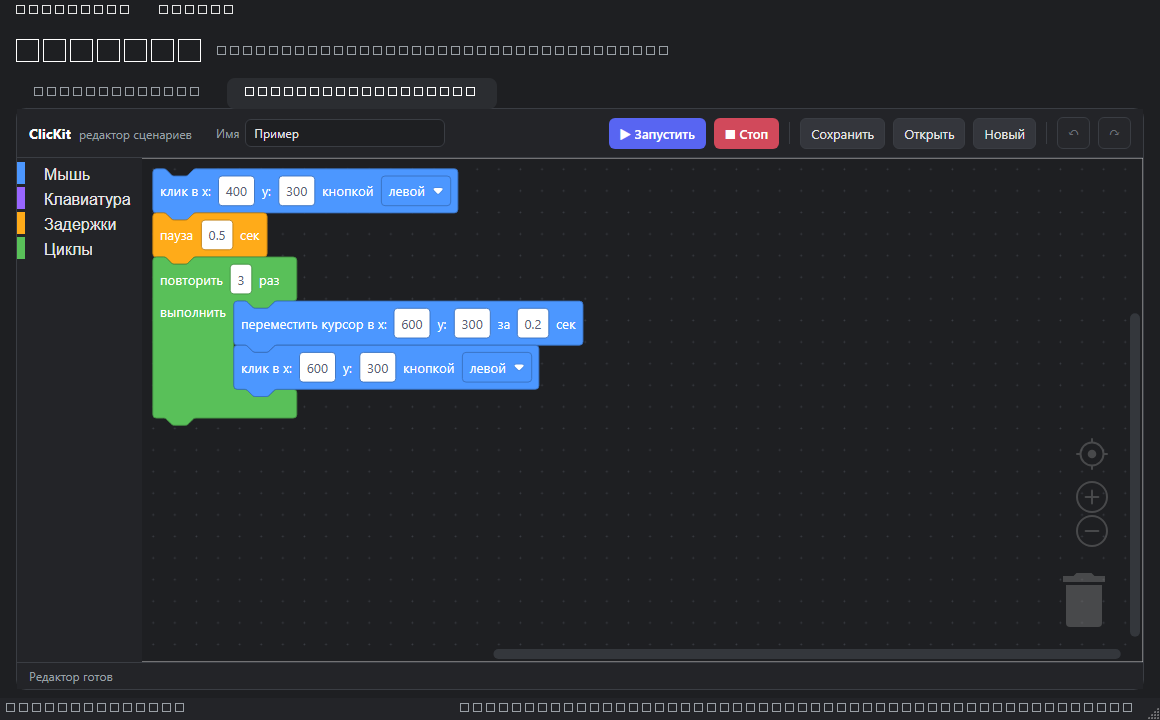
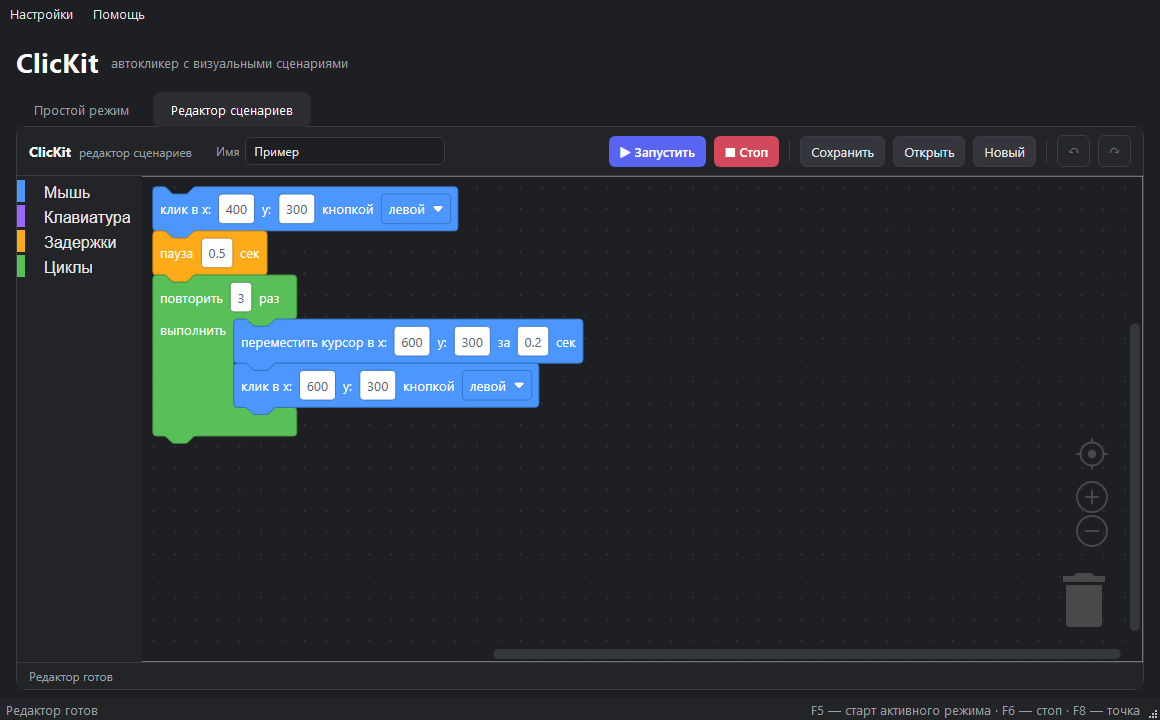
fix: скриншоты README с системными шрифтами вместо квадратов

diff --git a/scripts/make_screenshots.py b/scripts/make_screenshots.py
@@ -1,7 +1,10 @@
-"""Снимки интерфейса для README: offscreen-рендер реального окна.
+"""Снимки интерфейса для README: рендер реального окна без экрана.
 
-Скрипт поднимает настоящее окно ClicKit в offscreen-режиме (без экрана),
+Скрипт поднимает настоящее окно ClicKit с флагом `WA_DontShowOnScreen`
+(виджет рендерится, но не появляется на экране и не перехватывает фокус),
 заполняет форму демонстрационными значениями и сохраняет PNG в `docs/img/`.
+Нативная платформа Qt нужна ради системных шрифтов: у offscreen-платформы
+на Windows нет шрифтовой базы, и вместо текста получаются квадраты.
 Ввод не эмулируется: используется mock-бэкенд, поэтому мышь не двигается,
 а пользовательские настройки в `%APPDATA%` не читаются и не пишутся.
 
@@ -10,7 +13,8 @@
     python scripts/make_screenshots.py
 
 QtWebEngine должен уметь запуститься без GPU и sandbox — это те же
-переменные окружения, что и в CI/смоук-тестах.
+переменные окружения, что и в CI/смоук-тестах. На CI (где сессии без
+десктопа) флаг `CLICKIT_SHOTS_OFFSCREEN=1` возвращает offscreen-платформу.
 """
 
 import os
@@ -20,7 +24,8 @@ from collections.abc import Callable
 from pathlib import Path
 
 # Переменные Qt нужно выставить до импорта PySide6.
-os.environ.setdefault("QT_QPA_PLATFORM", "offscreen")
+if os.environ.get("CLICKIT_SHOTS_OFFSCREEN") == "1":
+    os.environ.setdefault("QT_QPA_PLATFORM", "offscreen")
 os.environ.setdefault("QTWEBENGINE_DISABLE_SANDBOX", "1")
 os.environ.setdefault("QTWEBENGINE_CHROMIUM_FLAGS", "--disable-gpu")
 
@@ -124,6 +129,11 @@ def main() -> int:
             theme=theme,
         )
         window.resize(*WINDOW_SIZE)
+        # Рендер без появления на экране: grab() рисует виджет в pixmap,
+        # а окно не показывается пользователю и не крадёт фокус.
+        from PySide6.QtCore import Qt
+
+        window.setAttribute(Qt.WA_DontShowOnScreen, True)
         window.show()
         _pump(app, 500)
 

diff --git a/PROGRESS.md b/PROGRESS.md
@@ -55,6 +55,7 @@
 | 2026-11-04 | **T3.2 (M7) выполнена — Docker-образ сервиса:** `docker/Dockerfile.service` (multi-stage `builder` → `runtime`: venv с зависимостями, non-root `UID/GID 10001`, `HEALTHCHECK` раз в 10 с через `python -m service.app.healthcheck` только по `/healthz`, exec-форма uvicorn и `--timeout-graceful-shutdown 20`); `service/app/healthcheck.py` (короткая ошибка без traceback, URL из env); `requirements-service.txt` разделён на runtime и `requirements-service-test.txt` (pytest/coverage в образ не попадают), `.dockerignore` дополнен `.env*`/отчётами покрытия. Проверено вживую: образ `clikit-service:local` 332 МБ, контейнер healthy, `uid=10001`, `/healthz`/`/readyz`/`/version` 200, `POST`/`GET` сценария на PostgreSQL 16 (Alembic `0001`), `docker stop` → exit 0 и graceful shutdown. Тесты: 8 новых (`test_dockerfile.py`, `test_healthcheck.py`), всего **444 passed**; `ruff check`/`format --check` чисто. Commit `05a6624` | ✅ Готово |
 | 2026-11-05 | **T4.1 (M7) выполнена — локальный compose Cloud:** `docker-compose.cloud.yml` — PostgreSQL 16 с томом `pgdata` и healthcheck `pg_isready`, одноразовый `migrate` (`python -m alembic upgrade head`, `command: []` после замены ENTRYPOINT), API с `${CLICKIT_API_PORT:-8000}`, ожиданием здоровой БД и успешных миграций; секреты обязательны через `${VAR:?}` и `.env`. Добавлены `.env.example` (только заготовки), `!.env.example` в `.gitignore`, раздел «Локальный запуск» в `docs/api.md`, краткое упоминание в README и 7 статических тестов `tests/service/test_compose_cloud.py`. Проверено вживую: `up -d --build` → `migrate` exit 0 (`alembic_version=0001`), API healthy, `/healthz`/`/readyz`/`/version` 200, `POST`/`GET`/list сценария; остановка БД — `/readyz` 503 при `/healthz` 200, после старта снова 200; `down` → `up -d` — сценарий сохранился, `down -v` удаляет данные. Тесты: 450 passed, 1 нестабильный QtWebEngine-тест прошёл при повторном запуске (вне задачи); `ruff` чисто. Commit `0c2dee8` | ✅ Готово |
 | 2026-11-05 | **Оформление репозитория:** новые скриншоты «Простой режим» и «Редактор сценариев» (`docs/img/`) через offscreen-скрипт `scripts/make_screenshots.py` (QT_QPA_PLATFORM=offscreen, ожидание `window.__ckReady` через `runJavaScript`, курсор не двигается — запускался существующий демо-сценарий); README дополнен бейджами (CI, Release, License, Python, Ruff, Windows, PySide6, Blockly, Cloud, GHCR, PRs welcome), блоками скриншотов, mermaid-диаграммами архитектуры и картой репозитория (EN и RU), статусы M7 обновлены на «в работе»; созданы `CONTRIBUTING.md`, `SECURITY.md` (приватное отчётление через GitHub Security Advisories, модель угроз и не-уязвимости), `CODE_OF_CONDUCT.md` (Contributor Covenant 2.1), формы issues `.github/ISSUE_TEMPLATE/{bug_report,feature_request,config}.yml`, `.github/PULL_REQUEST_TEMPLATE.md` и `.editorconfig`; `AI_CONTEXT.md` §3.2 дополнен. `ruff check`/`format --check` — чисто | ✅ Готово |
+| 2026-11-05 | **Пост-фиксы оформления:** выставлены GitHub-топики репозитория (python, sqlalchemy, postgresql, fastapi, alembic, pyside6, qt6, blockly, pyautogui, pynput, pyinstaller, windows, auto-clicker, automation, docker — через `gh api`); скриншоты переделаны без «квадратиков» вместо текста: `make_screenshots.py` теперь рендерит окно на нативной платформе с `WA_DontShowOnScreen` (окно не появляется, мышь не двигается, шрифты системные; у offscreen-платформы Qt на Windows нет шрифтовой базы; запасной режим — `CLICKIT_SHOTS_OFFSCREEN=1`); починен CI (`test_page_loads_and_has_starter_blocks` падал на раннере: внутренний таймаут `eval_js` 2 с меньше времени прогрева Chromium — `wait_js` теперь отдаёт опросу весь оставшийся бюджет и ловит `TimeoutError`, дефолт ожидания 30 с) | ✅ Готово |
 
 ---
 
